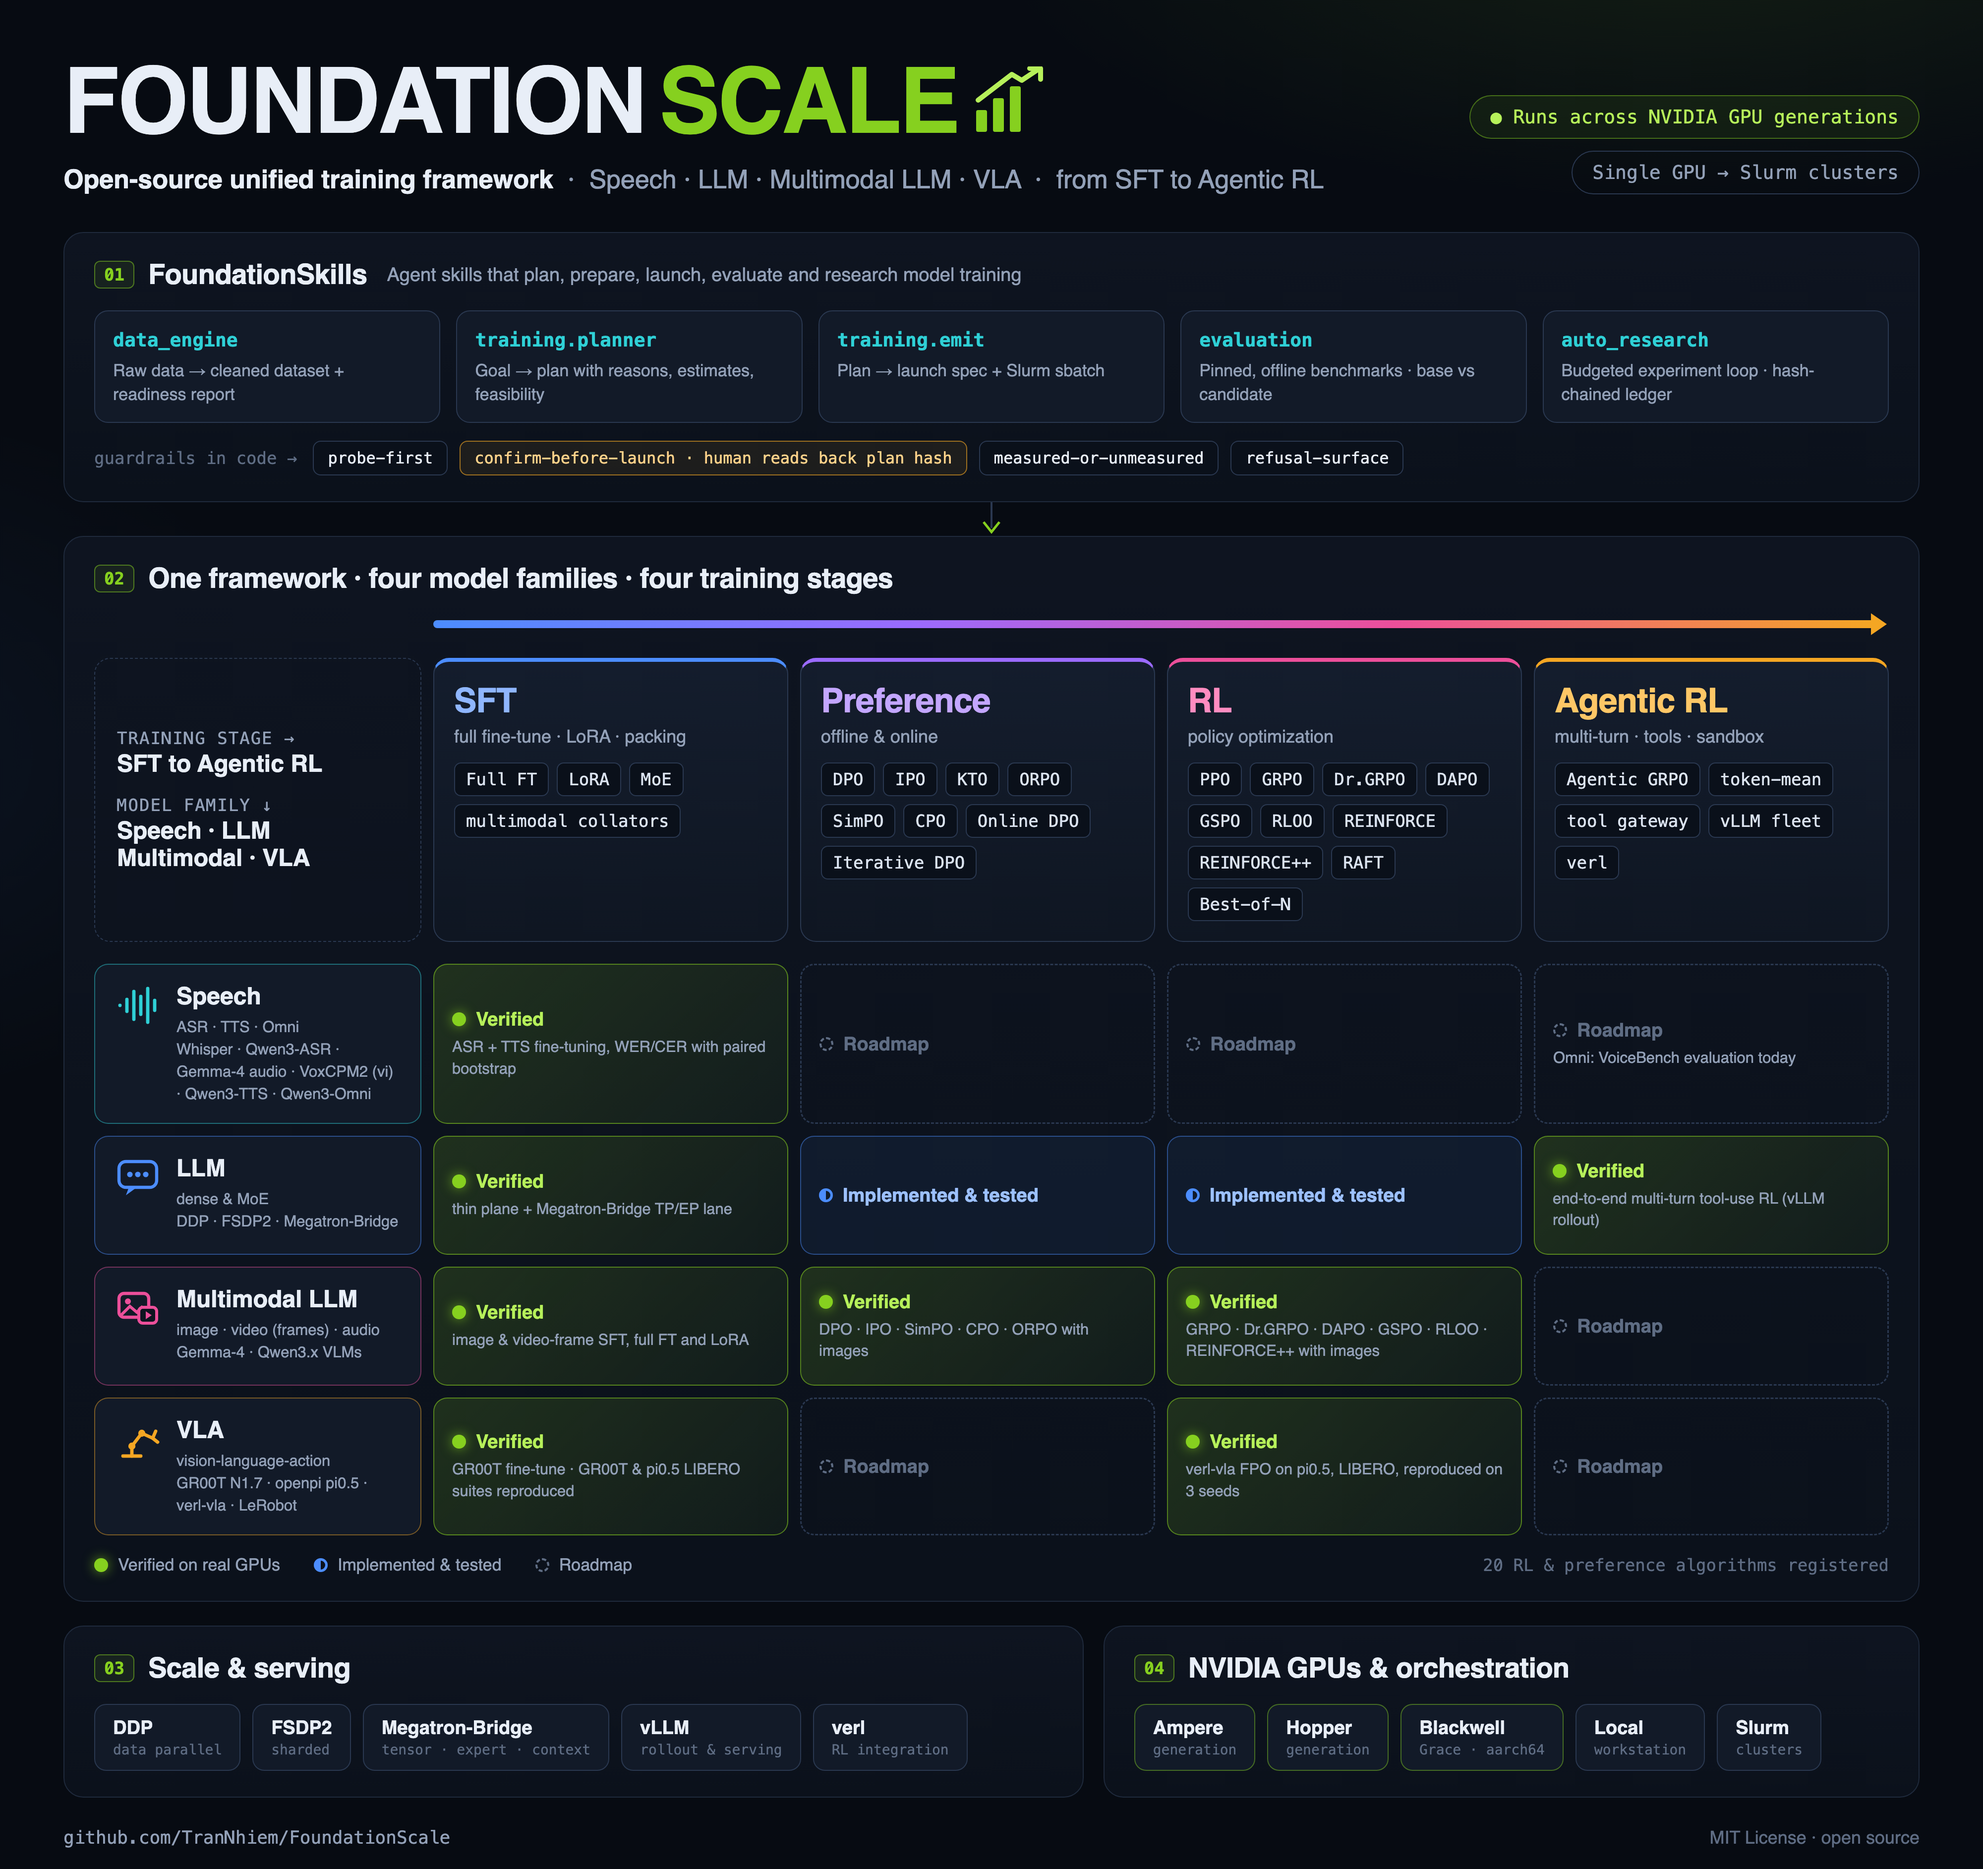
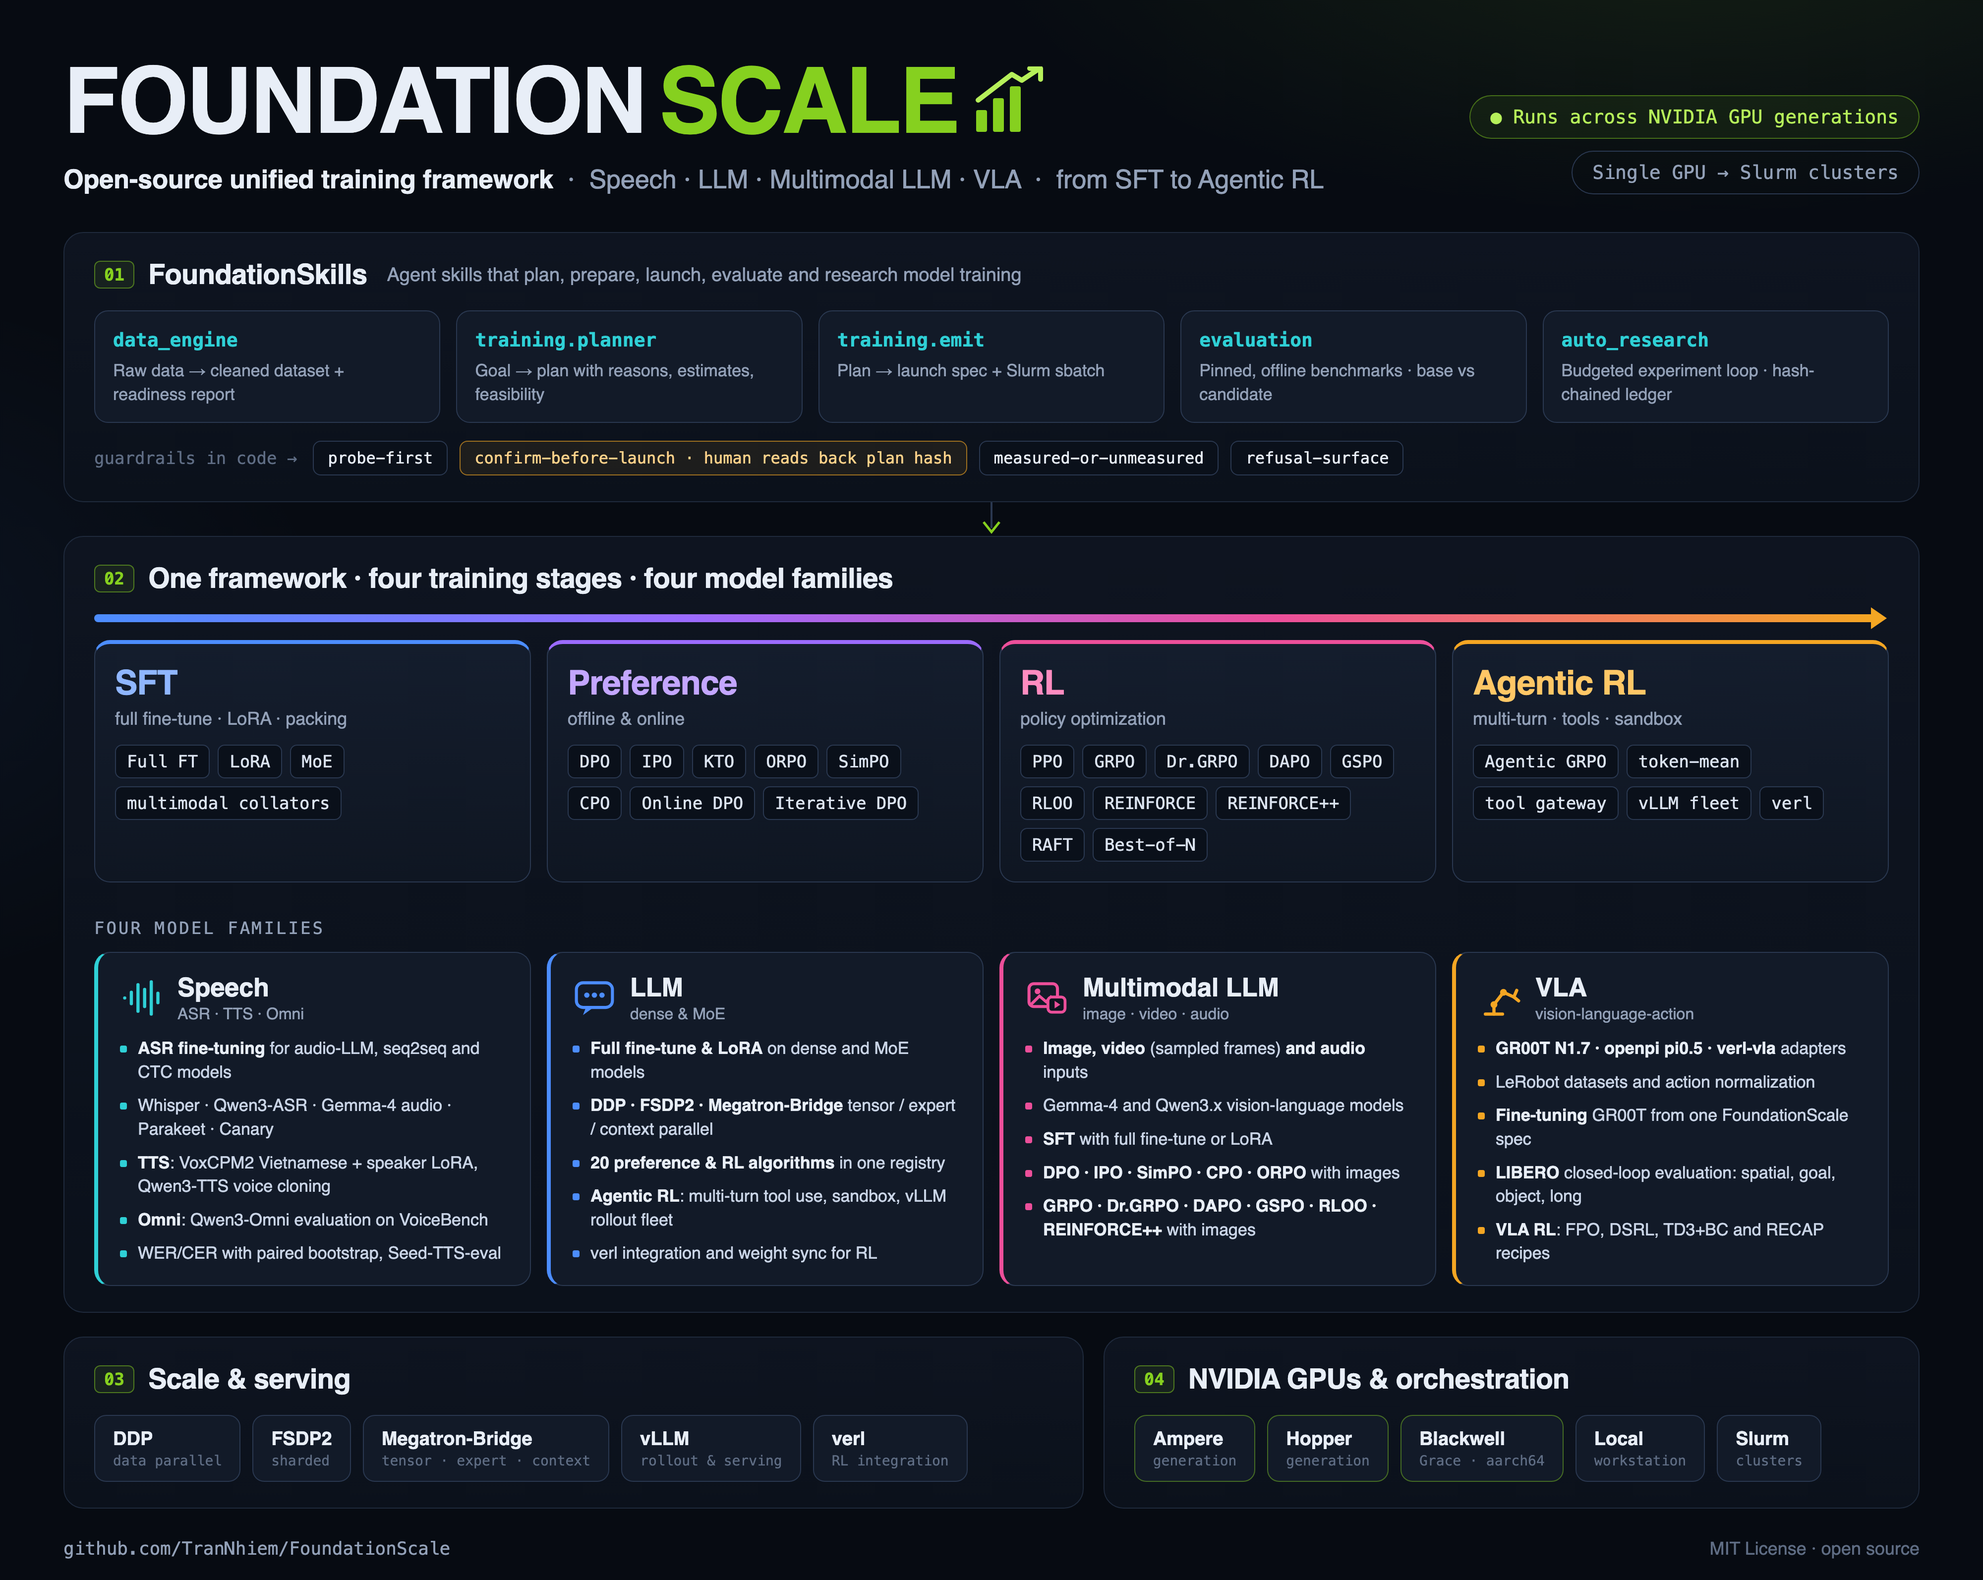
docs: hero lists each model family's capabilities instead of status cells
The matrix of verified / tested / roadmap cells read as a scorecard. The
hero now shows the four training stages as one row and, under it, one card
per model family with its key capabilities (models, methods, evaluation),
taken from what the tree implements.

diff --git a/assets/hero.html b/assets/hero.html
@@ -104,6 +104,18 @@
   .c.gpu{border-color:rgba(134,208,31,.45)}
   footer{display:flex;justify-content:space-between;margin-top:30px;font-size:18px;color:var(--mute)}
   footer .gh{font-family:var(--mono);color:var(--dim)}
+  .stagebar2{height:8px;border-radius:8px;margin:6px 14px 18px 0;position:relative;background:linear-gradient(90deg,var(--blue),var(--violet),var(--pink),var(--amber))}
+  .stagebar2:after{content:"";position:absolute;right:-12px;top:-7px;border-left:16px solid var(--amber);border-top:11px solid transparent;border-bottom:11px solid transparent}
+  .row4{display:grid;grid-template-columns:repeat(4,1fr);gap:16px}
+  .famtitle{font-family:var(--mono);font-size:17px;color:var(--dim);letter-spacing:2px;text-transform:uppercase;margin:26px 0 14px}
+  .fc{border-radius:16px;padding:20px 22px;background:var(--panel2);border:1px solid var(--line2);border-left:4px solid var(--c)}
+  .fh{display:flex;gap:14px;align-items:center;margin-bottom:14px}
+  .fh .fn{font-size:26px;font-weight:900}
+  .fh .fs{font-size:16px;color:var(--dim);margin-top:2px}
+  .fc ul{list-style:none;display:flex;flex-direction:column;gap:10px}
+  .fc li{font-size:17px;line-height:1.4;color:#c9d4e6;padding-left:18px;position:relative}
+  .fc li:before{content:"";position:absolute;left:0;top:9px;width:7px;height:7px;border-radius:2px;background:var(--c)}
+  .fc li b{color:var(--text);font-weight:700}
 </style>
 </head>
 <body>
@@ -145,12 +157,9 @@
 
 <!-- 02 Training matrix -->
 <section class="sec">
-  <div class="lbl"><span class="num">02</span><h2>One framework · four model families · four training stages</h2></div>
-  <div class="matrix">
-    <div></div>
-    <div class="stagebar"></div>
-
-    <div class="axis"><div>TRAINING STAGE →<b>SFT to Agentic RL</b></div><div>MODEL FAMILY ↓<b>Speech · LLM<br>Multimodal · VLA</b></div></div>
+  <div class="lbl"><span class="num">02</span><h2>One framework · four training stages · four model families</h2></div>
+  <div class="stagebar2"></div>
+  <div class="row4">
     <div class="ch" style="border-top-color:#4c8dff"><div class="st" style="color:#8fb6ff">SFT</div><div class="ss">full fine-tune · LoRA · packing</div>
       <div class="algs"><span class="a">Full FT</span><span class="a">LoRA</span><span class="a">MoE</span><span class="a">multimodal collators</span></div></div>
     <div class="ch" style="border-top-color:#9b6bff"><div class="st" style="color:#c3a6ff">Preference</div><div class="ss">offline &amp; online</div>
@@ -159,48 +168,46 @@
       <div class="algs"><span class="a">PPO</span><span class="a">GRPO</span><span class="a">Dr.GRPO</span><span class="a">DAPO</span><span class="a">GSPO</span><span class="a">RLOO</span><span class="a">REINFORCE</span><span class="a">REINFORCE++</span><span class="a">RAFT</span><span class="a">Best-of-N</span></div></div>
     <div class="ch" style="border-top-color:#f4a623"><div class="st" style="color:#ffc766">Agentic RL</div><div class="ss">multi-turn · tools · sandbox</div>
       <div class="algs"><span class="a">Agentic GRPO</span><span class="a">token-mean</span><span class="a">tool gateway</span><span class="a">vLLM fleet</span><span class="a">verl</span></div></div>
-
-    <!-- Speech -->
-    <div class="fam" style="border-color:rgba(47,208,214,.45)">
-      <svg width="46" height="46" viewBox="0 0 46 46"><g stroke="#2fd0d6" stroke-width="3.4" stroke-linecap="round"><path d="M5 23v0"/><path d="M12 17v12"/><path d="M19 9v28"/><path d="M26 14v18"/><path d="M33 6v34"/><path d="M40 18v10"/></g></svg>
-      <div><div class="fn">Speech</div><div class="fm">ASR · TTS · Omni<br>Whisper · Qwen3-ASR · Gemma-4 audio · VoxCPM2 (vi) · Qwen3-TTS · Qwen3-Omni</div></div></div>
-    <div class="cell hwc"><div class="k"><span class="dot f"></span>Verified</div><div class="v">ASR + TTS fine-tuning, WER/CER with paired bootstrap</div></div>
-    <div class="cell rm"><div class="k"><span class="dot e"></span>Roadmap</div></div>
-    <div class="cell rm"><div class="k"><span class="dot e"></span>Roadmap</div></div>
-    <div class="cell rm"><div class="k"><span class="dot e"></span>Roadmap</div><div class="v">Omni: VoiceBench evaluation today</div></div>
-
-    <!-- LLM -->
-    <div class="fam" style="border-color:rgba(76,141,255,.45)">
-      <svg width="46" height="46" viewBox="0 0 46 46"><rect x="4" y="7" width="38" height="26" rx="7" fill="none" stroke="#4c8dff" stroke-width="3.2"/><path d="M14 33 L11 41 L22 33" fill="#4c8dff"/><g fill="#4c8dff"><circle cx="15" cy="20" r="2.8"/><circle cx="23" cy="20" r="2.8"/><circle cx="31" cy="20" r="2.8"/></g></svg>
-      <div><div class="fn">LLM</div><div class="fm">dense &amp; MoE<br>DDP · FSDP2 · Megatron-Bridge</div></div></div>
-    <div class="cell hwc"><div class="k"><span class="dot f"></span>Verified</div><div class="v">thin plane + Megatron-Bridge TP/EP lane</div></div>
-    <div class="cell tst"><div class="k"><span class="dot h"></span>Implemented &amp; tested</div></div>
-    <div class="cell tst"><div class="k"><span class="dot h"></span>Implemented &amp; tested</div></div>
-    <div class="cell hwc"><div class="k"><span class="dot f"></span>Verified</div><div class="v">end-to-end multi-turn tool-use RL (vLLM rollout)</div></div>
-
-    <!-- MLLM -->
-    <div class="fam" style="border-color:rgba(236,79,154,.45)">
-      <svg width="46" height="46" viewBox="0 0 46 46"><rect x="4" y="8" width="30" height="24" rx="5" fill="none" stroke="#ec4f9a" stroke-width="3.2"/><circle cx="13" cy="16" r="3" fill="#ec4f9a"/><path d="M6 30 L15 21 L22 27 L27 22 L33 28" stroke="#ec4f9a" stroke-width="3" fill="none"/><rect x="24" y="22" width="18" height="16" rx="4" fill="#0e1420" stroke="#ec4f9a" stroke-width="3"/><path d="M31 26 L37 30 L31 34Z" fill="#ec4f9a"/></svg>
-      <div><div class="fn">Multimodal LLM</div><div class="fm">image · video (frames) · audio<br>Gemma-4 · Qwen3.x VLMs</div></div></div>
-    <div class="cell hwc"><div class="k"><span class="dot f"></span>Verified</div><div class="v">image &amp; video-frame SFT, full FT and LoRA</div></div>
-    <div class="cell hwc"><div class="k"><span class="dot f"></span>Verified</div><div class="v">DPO · IPO · SimPO · CPO · ORPO with images</div></div>
-    <div class="cell hwc"><div class="k"><span class="dot f"></span>Verified</div><div class="v">GRPO · Dr.GRPO · DAPO · GSPO · RLOO · REINFORCE++ with images</div></div>
-    <div class="cell rm"><div class="k"><span class="dot e"></span>Roadmap</div></div>
-
-    <!-- VLA -->
-    <div class="fam" style="border-color:rgba(244,166,35,.45)">
-      <svg width="46" height="46" viewBox="0 0 46 46"><g stroke="#f4a623" stroke-width="3.4" stroke-linecap="round" fill="none"><path d="M8 40 H26"/><path d="M17 40 V30"/><path d="M17 30 L27 17"/><path d="M27 17 L38 22"/><path d="M38 22 L41 15 M38 22 L43 26"/></g><g fill="#f4a623"><circle cx="17" cy="30" r="3.6"/><circle cx="27" cy="17" r="3.6"/></g></svg>
-      <div><div class="fn">VLA</div><div class="fm">vision-language-action<br>GR00T N1.7 · openpi pi0.5 · verl-vla · LeRobot</div></div></div>
-    <div class="cell hwc"><div class="k"><span class="dot f"></span>Verified</div><div class="v">GR00T fine-tune · GR00T &amp; pi0.5 LIBERO suites reproduced</div></div>
-    <div class="cell rm"><div class="k"><span class="dot e"></span>Roadmap</div></div>
-    <div class="cell hwc"><div class="k"><span class="dot f"></span>Verified</div><div class="v">verl-vla FPO on pi0.5, LIBERO, reproduced on 3 seeds</div></div>
-    <div class="cell rm"><div class="k"><span class="dot e"></span>Roadmap</div></div>
   </div>
-  <div class="legend">
-    <span><span class="dot f"></span>Verified on real GPUs</span>
-    <span><span class="dot h"></span>Implemented &amp; tested</span>
-    <span><span class="dot e"></span>Roadmap</span>
-    <span style="margin-left:auto;font-family:var(--mono);color:var(--mute)">20 RL &amp; preference algorithms registered</span>
+
+  <div class="famtitle">Four model families</div>
+  <div class="row4">
+    <div class="fc" style="--c:#2fd0d6">
+      <div class="fh"><svg width="44" height="44" viewBox="0 0 46 46"><g stroke="#2fd0d6" stroke-width="3.4" stroke-linecap="round"><path d="M5 23v0"/><path d="M12 17v12"/><path d="M19 9v28"/><path d="M26 14v18"/><path d="M33 6v34"/><path d="M40 18v10"/></g></svg><div><div class="fn">Speech</div><div class="fs">ASR · TTS · Omni</div></div></div>
+      <ul>
+        <li><b>ASR fine-tuning</b> for audio-LLM, seq2seq and CTC models</li>
+        <li>Whisper · Qwen3-ASR · Gemma-4 audio · Parakeet · Canary</li>
+        <li><b>TTS</b>: VoxCPM2 Vietnamese + speaker LoRA, Qwen3-TTS voice cloning</li>
+        <li><b>Omni</b>: Qwen3-Omni evaluation on VoiceBench</li>
+        <li>WER/CER with paired bootstrap, Seed-TTS-eval</li>
+      </ul></div>
+    <div class="fc" style="--c:#4c8dff">
+      <div class="fh"><svg width="44" height="44" viewBox="0 0 46 46"><rect x="4" y="7" width="38" height="26" rx="7" fill="none" stroke="#4c8dff" stroke-width="3.2"/><path d="M14 33 L11 41 L22 33" fill="#4c8dff"/><g fill="#4c8dff"><circle cx="15" cy="20" r="2.8"/><circle cx="23" cy="20" r="2.8"/><circle cx="31" cy="20" r="2.8"/></g></svg><div><div class="fn">LLM</div><div class="fs">dense &amp; MoE</div></div></div>
+      <ul>
+        <li><b>Full fine-tune &amp; LoRA</b> on dense and MoE models</li>
+        <li><b>DDP · FSDP2 · Megatron-Bridge</b> tensor / expert / context parallel</li>
+        <li><b>20 preference &amp; RL algorithms</b> in one registry</li>
+        <li><b>Agentic RL</b>: multi-turn tool use, sandbox, vLLM rollout fleet</li>
+        <li>verl integration and weight sync for RL</li>
+      </ul></div>
+    <div class="fc" style="--c:#ec4f9a">
+      <div class="fh"><svg width="44" height="44" viewBox="0 0 46 46"><rect x="4" y="8" width="30" height="24" rx="5" fill="none" stroke="#ec4f9a" stroke-width="3.2"/><circle cx="13" cy="16" r="3" fill="#ec4f9a"/><path d="M6 30 L15 21 L22 27 L27 22 L33 28" stroke="#ec4f9a" stroke-width="3" fill="none"/><rect x="24" y="22" width="18" height="16" rx="4" fill="#0e1420" stroke="#ec4f9a" stroke-width="3"/><path d="M31 26 L37 30 L31 34Z" fill="#ec4f9a"/></svg><div><div class="fn">Multimodal LLM</div><div class="fs">image · video · audio</div></div></div>
+      <ul>
+        <li><b>Image, video</b> (sampled frames) <b>and audio</b> inputs</li>
+        <li>Gemma-4 and Qwen3.x vision-language models</li>
+        <li><b>SFT</b> with full fine-tune or LoRA</li>
+        <li><b>DPO · IPO · SimPO · CPO · ORPO</b> with images</li>
+        <li><b>GRPO · Dr.GRPO · DAPO · GSPO · RLOO · REINFORCE++</b> with images</li>
+      </ul></div>
+    <div class="fc" style="--c:#f4a623">
+      <div class="fh"><svg width="44" height="44" viewBox="0 0 46 46"><g stroke="#f4a623" stroke-width="3.4" stroke-linecap="round" fill="none"><path d="M8 40 H26"/><path d="M17 40 V30"/><path d="M17 30 L27 17"/><path d="M27 17 L38 22"/><path d="M38 22 L41 15 M38 22 L43 26"/></g><g fill="#f4a623"><circle cx="17" cy="30" r="3.6"/><circle cx="27" cy="17" r="3.6"/></g></svg><div><div class="fn">VLA</div><div class="fs">vision-language-action</div></div></div>
+      <ul>
+        <li><b>GR00T N1.7 · openpi pi0.5 · verl-vla</b> adapters</li>
+        <li>LeRobot datasets and action normalization</li>
+        <li><b>Fine-tuning</b> GR00T from one FoundationScale spec</li>
+        <li><b>LIBERO</b> closed-loop evaluation: spatial, goal, object, long</li>
+        <li><b>VLA RL</b>: FPO, DSRL, TD3+BC and RECAP recipes</li>
+      </ul></div>
   </div>
 </section>
 
